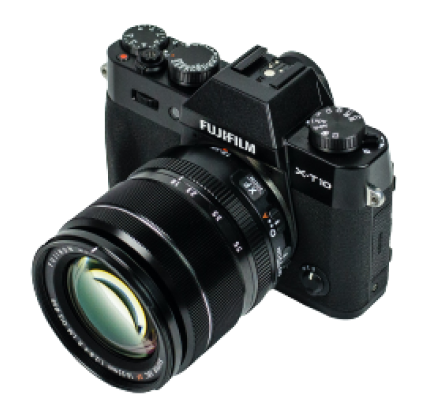
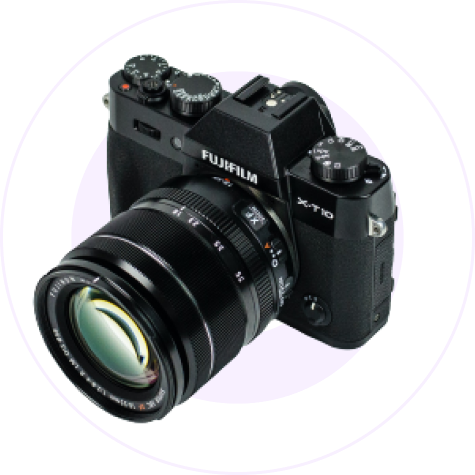
hero part done

Changed region(s): [[0.0591, 0.058, 0.9159, 0.9565]]

diff --git a/index.html b/index.html
@@ -11,6 +11,9 @@
     <link rel="preconnect" href="https://fonts.gstatic.com" crossorigin>
     <link href="https://fonts.googleapis.com/css2?family=Poppins:wght@500;600;700&display=swap" rel="stylesheet">
 
+    <!-- fontawesome -->
+    <link rel="stylesheet" href="https://cdnjs.cloudflare.com/ajax/libs/font-awesome/6.1.1/css/all.min.css">
+
     <!-- css -->
     <link rel="stylesheet" href="style/style.css">
 
@@ -64,6 +67,32 @@
         </div>
     </header>
     <!-- header -->
+
+
+    <!-- hero -->
+    <section class="hero">
+        <div class="container">
+            <div class="flex j-between row a-center">
+                <div class="half">
+                    <h1 class="title">
+                        Start your Journey as
+                        Influencer
+                    </h1>
+                    <p class="subtitle">
+                        We have the knowledgeable Video and Audio Pros to help you choose the right equipment for your
+                        productions and post productions.
+                    </p>
+                    <a href="" class="btn">
+                        Preebook now <i class="fa fa-arrow-right"></i>
+                    </a>
+                </div>
+                <div class="half flex f-end">
+                    <img src="images/main-camera.png" alt="">
+                </div>
+            </div>
+        </div>
+    </section>
+    <!-- hero -->
 
 </body>
 

diff --git a/style/style.css b/style/style.css
@@ -4,6 +4,8 @@
 * {
     font-family: 'Poppins', sans-serif;
     box-sizing: border-box;
+    color: #3A3A3A;
+    margin: 0;
 }
 
 body {
@@ -73,4 +75,46 @@ ul {
 
 .menu li img {
     width: 20px;
+}
+
+
+
+
+/* --------------------------------------- */
+/* hero */
+/* --------------------------------------- */
+
+.hero {
+    padding-top: 50px;
+}
+
+.half {
+    width: 50%;
+}
+
+h1.title {
+    font-size: 52px;
+    font-weight: 700;
+    line-height: 1.2;
+}
+
+.subtitle {
+    margin: 16px 0;
+}
+
+.btn {
+    background: #E02C6D;
+    color: white;
+    padding: 10px 24px;
+    margin-top: 16px;
+    display: inline-block;
+    border-radius: 30px;
+}
+
+.btn i {
+    color: white;
+}
+
+.f-end {
+    justify-content: flex-end;
 }
